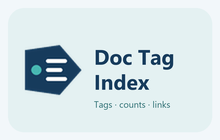
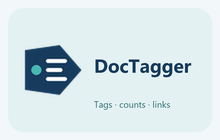
updated name

Changed region(s): [[0.4091, 0.3429, 0.8727, 0.6571]]

diff --git a/docs/terms.html b/docs/terms.html
@@ -3,18 +3,18 @@
   <head>
     <meta charset="utf-8">
     <meta name="viewport" content="width=device-width, initial-scale=1">
-    <title>Terms of Service · Doc Tag Index</title>
+    <title>Terms of Service · DocTagger</title>
     <link rel="stylesheet" href="styles.css">
   </head>
   <body>
-    <header><strong>Doc Tag Index</strong><nav><a href="index.html">Home</a><a href="support.html">Support</a></nav></header>
+    <header><strong>DocTagger</strong><nav><a href="index.html">Home</a><a href="support.html">Support</a></nav></header>
     <main>
       <h1>Terms of Service</h1>
-      <p><strong>Effective date:</strong> September 7, 2026</p>
-      <p>These terms are an agreement between you and Chenglin Li, 1 Brookings Drive, St. Louis, MO 63130 (“Publisher”), concerning Doc Tag Index.</p>
+      <p><strong>Effective date:</strong> September 8, 2026</p>
+      <p>These terms are an agreement between you and Chenglin Li, 1 Brookings Drive, St. Louis, MO 63130 (“Publisher”), concerning DocTagger.</p>
 
       <h2>The service</h2>
-      <p>Doc Tag Index is a free Google Docs™ Editor add-on that inserts structured tags and synchronizes tag metadata to a Google Sheet selected by the user. The service does not include storage outside Google services.</p>
+      <p>DocTagger is a free Google Docs™ Editor add-on that inserts structured tags and synchronizes tag metadata to a Google Sheet selected by the user. The service does not include storage outside Google services.</p>
 
       <h2>Your responsibilities</h2>
       <p>You are responsible for the content you tag, the people with whom you share documents and registries, maintaining appropriate backups, and complying with applicable laws and organizational policies. Do not use the add-on to violate others' rights or to process content you are not authorized to access.</p>
@@ -29,8 +29,8 @@
       <p>You may stop using the service by uninstalling it and revoking its Google Account access. The Publisher may suspend access when reasonably necessary to address abuse, legal obligations, or security threats.</p>
 
       <h2>Contact and governing law</h2>
-      <p>Questions may be sent to <a href="mailto:charlie.l38324@gmail.com">charlie.l38324@gmail.com</a>. These terms are governed by the laws of [YOUR JURISDICTION], without regard to conflict-of-law principles, except where consumer law requires otherwise.</p>
+      <p>Questions may be sent to <a href="mailto:charlie.l38324@gmail.com">charlie.l38324@gmail.com</a>. These terms are governed by the laws of State of Missouri, United States, without regard to conflict-of-law principles, except where consumer law requires otherwise.</p>
     </main>
-    <footer><p>Google Docs™ and Google Sheets™ are trademarks of Google LLC. Doc Tag Index is not endorsed by or affiliated with Google LLC.</p></footer>
+    <footer><p>Google Docs™ and Google Sheets™ are trademarks of Google LLC. DocTagger is not endorsed by or affiliated with Google LLC.</p></footer>
   </body>
 </html>

diff --git a/src/Code.js b/src/Code.js
@@ -50,7 +50,7 @@ function onInstall(e) {
 
 function showDocTagSidebar() {
   var output = HtmlService.createHtmlOutputFromFile('Sidebar')
-    .setTitle('Doc Tag Index');
+    .setTitle('DocTagger');
   DocumentApp.getUi().showSidebar(output);
 }
 
@@ -58,7 +58,7 @@ function showDocTagHelp() {
   var output = HtmlService.createHtmlOutputFromFile('Help')
     .setWidth(460)
     .setHeight(520);
-  DocumentApp.getUi().showModalDialog(output, 'Doc Tag Index help and privacy');
+  DocumentApp.getUi().showModalDialog(output, 'DocTagger help and privacy');
 }
 
 function getSidebarState() {
@@ -117,7 +117,7 @@ function acceptDataUse() {
 
 function createRegistry() {
   dtiRequireDataUseConsent_();
-  var spreadsheet = SpreadsheetApp.create('Doc Tag Index Registry');
+  var spreadsheet = SpreadsheetApp.create('DocTagger Registry');
   dtiInitializeRegistry_(spreadsheet);
   dtiSetRegistryId_(spreadsheet.getId());
   return getSidebarState();
@@ -309,13 +309,13 @@ function syncCurrentDocumentFromMenu() {
   try {
     var result = syncCurrentDocument();
     DocumentApp.getUi().alert(
-      'Doc Tag Index',
+      'DocTagger',
       result.message,
       DocumentApp.getUi().ButtonSet.OK
     );
   } catch (error) {
     DocumentApp.getUi().alert(
-      'Doc Tag Index',
+      'DocTagger',
       error.message || String(error),
       DocumentApp.getUi().ButtonSet.OK
     );
@@ -701,7 +701,7 @@ function dtiInitializeRegistry_(spreadsheet) {
     'One row per option. Keep IDs stable. Use Active=FALSE to retire an option.'
   );
   var occurrenceSheet = spreadsheet.getSheetByName(DTI_SHEET_NAMES.occurrences);
-  occurrenceSheet.getRange('A1').setNote('Managed by Doc Tag Index; do not edit rows manually.');
+  occurrenceSheet.getRange('A1').setNote('Managed by DocTagger; do not edit rows manually.');
   spreadsheet.getSheetByName(DTI_SHEET_NAMES.summary)
     .getRange('A1').setNote('Rebuilt automatically during synchronization.');
 }
@@ -745,7 +745,7 @@ function dtiValidateRegistrySheets_(spreadsheet) {
     if (!currentExpected && !currentLegacy) {
       throw new Error(
         'The "' + sheet.getName() + '" sheet already exists but is not a ' +
-        'compatible Doc Tag Index sheet. Choose a dedicated registry Sheet.'
+        'compatible DocTagger sheet. Choose a dedicated registry Sheet.'
       );
     }
   });
@@ -759,7 +759,7 @@ function dtiEnsureHeaders_(sheet, headers) {
   var hasValues = current.some(function (value) { return value !== ''; });
   if (hasValues && current.join('\u0000') !== headers.join('\u0000')) {
     throw new Error(
-      'The "' + sheet.getName() + '" sheet exists but its header row does not match Doc Tag Index.'
+      'The "' + sheet.getName() + '" sheet exists but its header row does not match DocTagger.'
     );
   }
   sheet.getRange(1, 1, 1, headers.length)

diff --git a/docs/privacy.html b/docs/privacy.html
@@ -3,18 +3,18 @@
   <head>
     <meta charset="utf-8">
     <meta name="viewport" content="width=device-width, initial-scale=1">
-    <title>Privacy Policy · Doc Tag Index</title>
+    <title>Privacy Policy · DocTagger</title>
     <link rel="stylesheet" href="styles.css">
   </head>
   <body>
-    <header><strong>Doc Tag Index</strong><nav><a href="index.html">Home</a><a href="support.html">Support</a></nav></header>
+    <header><strong>DocTagger</strong><nav><a href="index.html">Home</a><a href="support.html">Support</a></nav></header>
     <main>
       <h1>Privacy Policy</h1>
-      <p><strong>Effective date:</strong> September 7, 2026</p>
+      <p><strong>Effective date:</strong> September 8, 2026</p>
       <p><strong>Publisher:</strong> Chenglin Li · 1 Brookings Drive, St. Louis, MO 63130</p>
 
       <h2>What the add-on accesses</h2>
-      <p>Doc Tag Index accesses only the Google Doc in which it is being used and the registry Google Sheet that the user creates or chooses. It processes:</p>
+      <p>DocTagger accesses only the Google Doc in which it is being used and the registry Google Sheet that the user creates or chooses. It processes:</p>
       <ul>
         <li>the current document's ID, title, and URL;</li>
         <li>managed tag text, property names, and option names;</li>
@@ -42,11 +42,11 @@
       <p>The add-on uses Google-hosted Apps Script services and HTTPS. It requests only the permissions needed for its released functionality and does not include third-party runtime libraries.</p>
 
       <h2>Google API data</h2>
-      <p>Doc Tag Index's use of information received from Google Workspace APIs adheres to the <a href="https://developers.google.com/terms/api-services-user-data-policy">Google API Services User Data Policy</a>, including the Limited Use requirements.</p>
+      <p>DocTagger's use of information received from Google Workspace APIs adheres to the <a href="https://developers.google.com/terms/api-services-user-data-policy">Google API Services User Data Policy</a>, including the Limited Use requirements.</p>
 
       <h2>Changes and contact</h2>
       <p>Material changes will be posted here with a revised effective date. Questions or deletion requests can be sent to <a href="mailto:charlie.l38324@gmail.com">charlie.l38324@gmail.com</a>.</p>
     </main>
-    <footer><p>Google Docs™ and Google Sheets™ are trademarks of Google LLC. Doc Tag Index is not endorsed by or affiliated with Google LLC.</p></footer>
+    <footer><p>Google Docs™ and Google Sheets™ are trademarks of Google LLC. DocTagger is not endorsed by or affiliated with Google LLC.</p></footer>
   </body>
 </html>

diff --git a/docs/delete-data.html b/docs/delete-data.html
@@ -3,17 +3,17 @@
   <head>
     <meta charset="utf-8">
     <meta name="viewport" content="width=device-width, initial-scale=1">
-    <title>Delete Data · Doc Tag Index</title>
+    <title>Delete Data · DocTagger</title>
     <link rel="stylesheet" href="styles.css">
   </head>
   <body>
-    <header><strong>Doc Tag Index</strong><nav><a href="index.html">Home</a><a href="privacy.html">Privacy</a></nav></header>
+    <header><strong>DocTagger</strong><nav><a href="index.html">Home</a><a href="privacy.html">Privacy</a></nav></header>
     <main>
       <h1>Manage and delete your data</h1>
 
       <h2>Delete one document's indexed data</h2>
       <ol>
-        <li>Open the document and the Doc Tag Index sidebar.</li>
+        <li>Open the document and the DocTagger sidebar.</li>
         <li>If necessary, connect the registry that contains the document's index.</li>
         <li>Select <strong>Delete this document's registry data</strong> and confirm.</li>
       </ol>
@@ -26,7 +26,7 @@
       <p>Use the tag's <strong>Remove</strong> button in the sidebar, or delete its visible text in the document and synchronize. Removed occurrence rows are deleted during synchronization.</p>
 
       <h2>Revoke future access</h2>
-      <p>Uninstall Doc Tag Index from Google Workspace Marketplace and remove its connection from the <a href="https://myaccount.google.com/connections" rel="noopener">Google Account connections page</a>.</p>
+      <p>Uninstall DocTagger from Google Workspace Marketplace and remove its connection from the <a href="https://myaccount.google.com/connections" rel="noopener">Google Account connections page</a>.</p>
 
       <h2>Request help</h2>
       <p>If you cannot perform these steps, contact <a href="mailto:charlie.l38324@gmail.com">charlie.l38324@gmail.com</a>. Do not email confidential document content.</p>

diff --git a/docs/index.html b/docs/index.html
@@ -4,13 +4,13 @@
     <meta charset="utf-8">
     <meta name="viewport" content="width=device-width, initial-scale=1">
     <meta name="description" content="Add controlled property tags to documents and index them in a shared spreadsheet.">
-    <title>Doc Tag Index</title>
+    <title>DocTagger</title>
     <link rel="icon" href="assets/icon-32.png">
     <link rel="stylesheet" href="styles.css">
   </head>
   <body>
     <header>
-      <img src="assets/icon-128.png" alt="Doc Tag Index">
+      <img src="assets/icon-128.png" alt="DocTagger">
       <nav aria-label="Site links">
         <a href="privacy.html">Privacy</a>
         <a href="terms.html">Terms</a>
@@ -19,7 +19,7 @@
     </header>
     <main>
       <p class="eyebrow">Structured tags for collaborative documents</p>
-      <h1>Doc Tag Index</h1>
+      <h1>DocTagger</h1>
       <p class="lead">
         Insert controlled property tags in Google Docs™ and synchronize a
         searchable, countable index to a Google Sheets™ registry that you own.
@@ -49,12 +49,12 @@
       </p>
 
       <h2>Pricing</h2>
-      <p>Doc Tag Index is free. There are no subscriptions, advertisements, or in-app purchases.</p>
+      <p>DocTagger is free. There are no subscriptions, advertisements, or in-app purchases.</p>
 
     </main>
     <footer>
       <p>Chenglin Li · 1 Brookings Drive, St. Louis, MO 63130 · <a href="mailto:charlie.l38324@gmail.com">charlie.l38324@gmail.com</a></p>
-      <p>Google Docs™ and Google Sheets™ are trademarks of Google LLC. Doc Tag Index is not endorsed by or affiliated with Google LLC.</p>
+      <p>Google Docs™ and Google Sheets™ are trademarks of Google LLC. DocTagger is not endorsed by or affiliated with Google LLC.</p>
     </footer>
   </body>
 </html>

diff --git a/src/Sidebar.html b/src/Sidebar.html
@@ -144,14 +144,14 @@
     </style>
   </head>
   <body>
-    <h1>Doc Tag Index</h1>
+    <h1>DocTagger</h1>
     <p id="documentTitle" class="muted">Loading…</p>
     <div id="status"></div>
 
     <section id="consent" class="card" hidden>
       <h2>Before you continue</h2>
       <p>
-        Doc Tag Index reads this document's title and managed tag text. When
+        DocTagger reads this document's title and managed tag text. When
         you insert or sync tags, it writes the document title, document and tag
         links, tag values, identifiers, and sync times to the registry Sheet
         you choose.
@@ -164,7 +164,7 @@
       </p>
       <label class="checkbox-row" for="consentCheckbox">
         <input id="consentCheckbox" type="checkbox">
-        <span>I understand and want to use Doc Tag Index.</span>
+        <span>I understand and want to use DocTagger.</span>
       </label>
       <button id="acceptDataUse" class="action" disabled>Continue</button>
     </section>
@@ -460,7 +460,7 @@
       document.getElementById('connectRegistry').addEventListener('click', function () {
         var value = document.getElementById('registryInput').value;
         if (!window.confirm(
-          'Connect this Sheet? Doc Tag Index will add or manage four dedicated tabs in it.'
+          'Connect this Sheet? DocTagger will add or manage four dedicated tabs in it.'
         )) {
           return;
         }

diff --git a/docs/support.html b/docs/support.html
@@ -3,18 +3,18 @@
   <head>
     <meta charset="utf-8">
     <meta name="viewport" content="width=device-width, initial-scale=1">
-    <title>Support · Doc Tag Index</title>
+    <title>Support · DocTagger</title>
     <link rel="stylesheet" href="styles.css">
   </head>
   <body>
-    <header><strong>Doc Tag Index</strong><nav><a href="index.html">Home</a><a href="privacy.html">Privacy</a></nav></header>
+    <header><strong>DocTagger</strong><nav><a href="index.html">Home</a><a href="privacy.html">Privacy</a></nav></header>
     <main>
       <h1>Support</h1>
       <p>For support, email <a href="mailto:charlie.l38324@gmail.com">charlie.l38324@gmail.com</a>. Include the action you attempted, the exact error message, and your browser type. Do not send confidential document text or grant the Publisher access to your files.</p>
 
       <h2>Set up a registry</h2>
       <ol>
-        <li>Open a document and choose <strong>Extensions → Doc Tag Index → Open sidebar</strong>.</li>
+        <li>Open a document and choose <strong>Extensions → DocTagger → Open sidebar</strong>.</li>
         <li>Review and accept the data-use disclosure for that document.</li>
         <li>Create a dedicated registry or connect a Google Sheet that you control.</li>
         <li>Share both the document and registry with collaborators who need them.</li>

diff --git a/src/Config.js b/src/Config.js
@@ -1,10 +1,10 @@
 /**
- * Replace these URLs after publishing the files in site/ on a verified domain
- * that you own. They must match the URLs entered in the OAuth consent screen
+ * These URLs point to the public pages published from docs/ on the verified
+ * production domain. They must match the URLs entered in the OAuth consent screen
  * and Google Workspace Marketplace SDK.
  */
 var DTI_PUBLIC_LINKS = {
-  home: 'https://p-mandevillei.github.io/DocTagger/index.html',
+  home: 'https://p-mandevillei.github.io/DocTagger/',
   privacy: 'https://p-mandevillei.github.io/DocTagger/privacy.html',
   terms: 'https://p-mandevillei.github.io/DocTagger/terms.html',
   support: 'https://p-mandevillei.github.io/DocTagger/support.html',

diff --git a/tests/core.test.js b/tests/core.test.js
@@ -4,10 +4,10 @@ const path = require('node:path');
 const test = require('node:test');
 const vm = require('node:vm');
 
-const source = fs.readFileSync(path.join(__dirname, '..', 'src', 'Core.gs'), 'utf8');
+const source = fs.readFileSync(path.join(__dirname, '..', 'src', 'Core.js'), 'utf8');
 const context = { encodeURIComponent };
 vm.createContext(context);
-vm.runInContext(source, context, { filename: 'Core.gs' });
+vm.runInContext(source, context, { filename: 'Core.js' });
 
 test('extracts an ID from a Sheets URL', () => {
   assert.equal(

diff --git a/src/Core.js b/src/Core.js
@@ -58,7 +58,7 @@ function dtiBuildTagText(propertyName, optionName) {
 /**
  * Prevents user-controlled strings from being interpreted as formulas when
  * they are written to Google Sheets. The zero-width prefix is removed again
- * when Doc Tag Index reads its own values.
+ * when DocTagger reads its own values.
  */
 function dtiSafeSheetText(value) {
   var text = String(value == null ? '' : value);

diff --git a/tests/publishing.test.js b/tests/publishing.test.js
@@ -34,6 +34,6 @@ test('public site includes required policy and support pages', () => {
   for (const filename of [
     'index.html', 'privacy.html', 'terms.html', 'support.html', 'delete-data.html',
   ]) {
-    assert.equal(fs.existsSync(path.join(root, 'site', filename)), true, filename);
+    assert.equal(fs.existsSync(path.join(root, 'docs', filename)), true, filename);
   }
 });

diff --git a/tests/code.test.js b/tests/code.test.js
@@ -14,7 +14,7 @@ function loadCode(document) {
     },
   };
   vm.createContext(context);
-  for (const filename of ['Core.gs', 'Code.gs']) {
+  for (const filename of ['Core.js', 'Code.js']) {
     vm.runInContext(
       fs.readFileSync(path.join(__dirname, '..', 'src', filename), 'utf8'),
       context,
